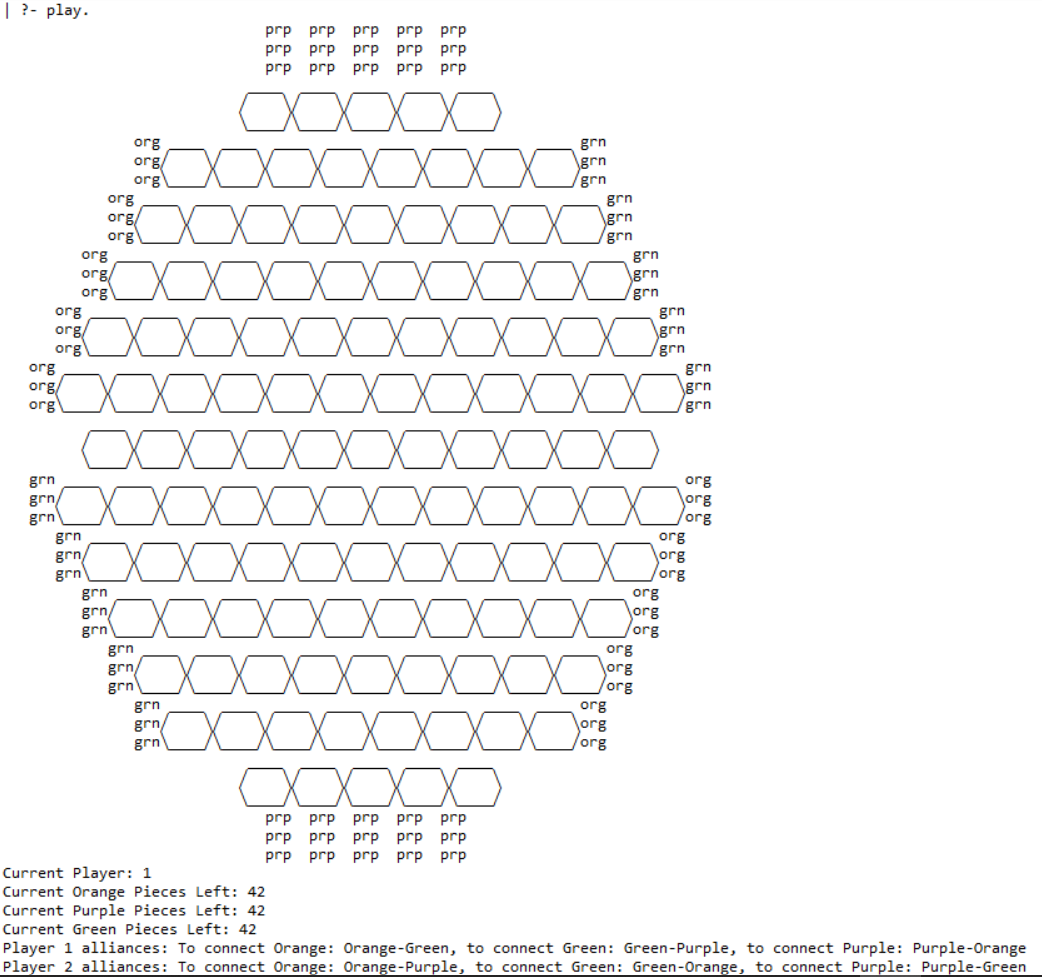
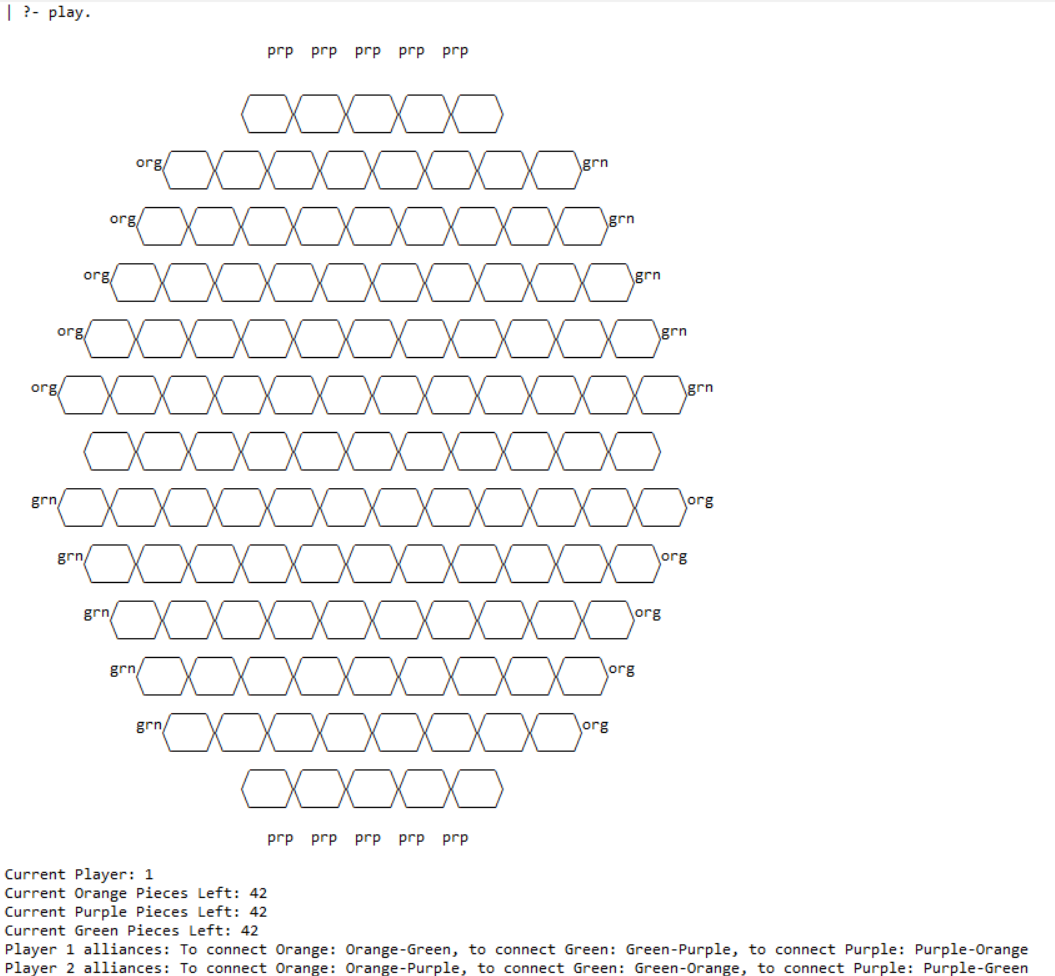
Modified board end colors

Changed region(s): [[0.0307, 0.0307, 0.7063, 0.8914], [0.0, 0.8914, 1.0, 1.0], [0.0, 0.0, 0.0921, 0.0307]]

diff --git a/README.md b/README.md
@@ -14,7 +14,7 @@ As peças podem ser colocadas em qualquer casa vazia.
 
 ## Representação interna do jogo
 É usada uma lista de listas para guardar o estado do jogo. <br /><br />
-### Estado Inicial
+### Estado inicial
 ![Initial Board Representation](./images/initialBoard.png) <br />
 O jogador atual e o número de peças restantes de cada cor são representados no fundo do board, bem como as alianças para as cores de cada jogador.
 As casas vazias são representados pelo valor empty, enquanto que as peças são representadas por 1 dos 3 seguintes valores - orange, green, purple. 
@@ -50,9 +50,11 @@ Estes 3 predicados são responsáveis por ler o valor de cada célula da lista H
 por exemplo, para o hexágono o display_top imprime uma sequência de ____ enquanto que o display_mid imprime / O \\, 
 no caso da peça colocado nessa célula ser laranja. Já o display_bottom imprime \\___/ de modo a fechar o hexágono.
 
-### Estado Intermédio
+### Estado intermédio
 ![Mid Board Representation](./images/midBoard.png) <br />
 
 ### Estado final
 ![Final Board Representation](./images/endBoard.png) <br />
 Neste caso, o jogador 2 ganhou, visto que bloqueou a cor roxa do jogador 1 (é inacessível ao jogador 1 pois a aliança da cor roxa é laranja e terá sempre uma linha verde a bloquear) e uniu com sucesso a cor verde usando verdes e as suas alianças (neste caso, laranja).
+
+Nota: A representação do estado intermédio e final do jogo foram feitas antes da alteração feita às cores laterais do tabuleiro.
